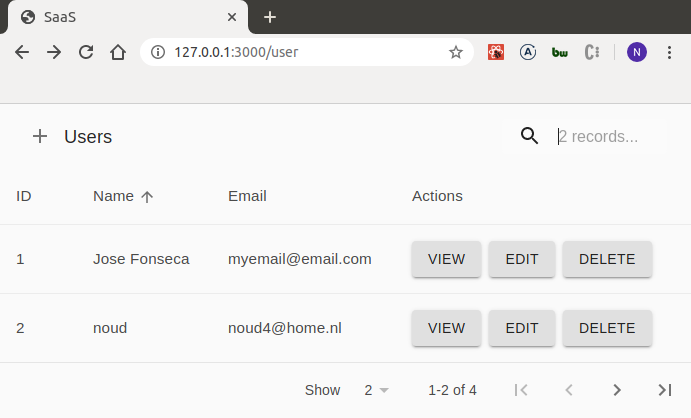
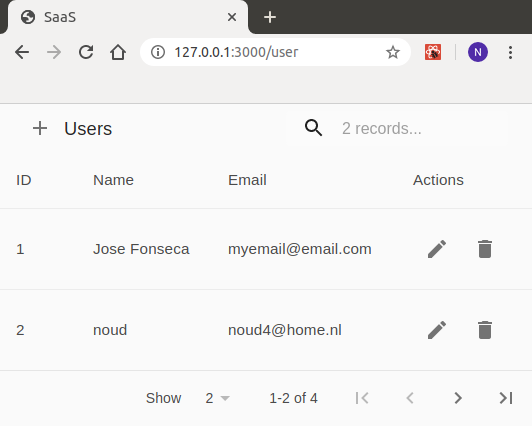
IconButton dev

diff --git a/src/components/EntityTable/CellRenderers/ActionButton.tsx b/src/components/EntityTable/CellRenderers/ActionButton.tsx
@@ -5,6 +5,9 @@ import Button from '@material-ui/core/Button';
 import Tooltip from '@material-ui/core/Tooltip';
 import defaultActions from '../../../lib/defaultActions';
 
+import IconButton from '@material-ui/core/IconButton';
+import { Delete, Edit } from '@material-ui/icons';
+
 const useStyles = makeStyles((theme: Theme) =>
   createStyles({
     actionButton: {
@@ -12,6 +15,35 @@ const useStyles = makeStyles((theme: Theme) =>
     },
   })
 );
+
+
+const TextButton = (actionButton: any, handleClick: any, actionType: any) => {
+  // const { actionButton, handleClick, actionType } = props;
+  return (
+    <Button variant="contained" className={actionButton} onClick={handleClick}>
+     {actionType}
+    </Button>
+  );
+} 
+
+const DeleteButton = (actionButton: any, handleClick: any, actionType: any) => {
+  // const { actionButton, handleClick, actionType } = props;
+  return (
+    <IconButton aria-label="delete" variant="contained" className={classes.actionButton} onClick={handleClick}>
+     <Delete />
+    </IconButton>
+  );
+}
+
+
+const EditButton = (actionButton: any, handleClick: any, actionType: any) => {
+  // const { actionButton, handleClick, actionType } = props;
+  return (
+    <IconButton aria-label="edit" variant="contained" className={classes.actionButton} onClick={handleClick}>
+     <Edit />
+    </IconButton>
+  );
+}
 
 const ActionButton = (props: any) => {
   const { actionType, entityName, entityId, actions } = props;
@@ -24,11 +56,24 @@ const ActionButton = (props: any) => {
     defaultActions[actionType](entityName, entityId, { history, actions });
   }
 
+  console.log('actionType',actionType);
+
+  var buttonToRender = TextButton;
+  switch(actionType) {
+    case "delete":
+        buttonToRender = DeleteButton;
+        break;
+      case "edit":
+        buttonToRender = EditButton;
+        break;
+    }
+
   return (
     <Tooltip title={actionType}>
-      <Button variant="contained" className={classes.actionButton} onClick={handleClick}>
-        {actionType}
-      </Button>
+      <div>
+        {TextButton(classes.actionButton, handleClick, actionType)}
+        {buttonToRender}
+      </div>
     </Tooltip>
   );
 };

diff --git a/src/components/EntityTable/CellRenderers/ActionButtons.tsx b/src/components/EntityTable/CellRenderers/ActionButtons.tsx
@@ -1,6 +1,9 @@
 import React from 'react';
 import ActionButton from './ActionButton';
 
+import IconButton from '@material-ui/core/IconButton';
+import { Delete, Edit } from '@material-ui/icons';
+
 export default function ActionButtons(props) {
   const { row = [], data = [], initialState = {} } = props;
 
@@ -9,9 +12,12 @@ export default function ActionButtons(props) {
 
   return (
     <React.Fragment>
-      <ActionButton key="view" entityId={id} entityName={entityName} actionType="view" />
-      <ActionButton key="edit" entityId={id} entityName={entityName} actionType="edit" />
-      <ActionButton key="delete" entityId={id} entityName={entityName} actionType="delete" actions={actions} />
+      <IconButton aria-label="edit" key="edit" entityId={id} entityName={entityName} actionType="edit" actions={actions}>
+        <Edit />
+      </IconButton>
+      <IconButton aria-label="delete" key="delete" entityId={id} entityName={entityName} actionType="delete" actions={actions}>
+        <Delete />
+      </IconButton>
     </React.Fragment>
   );
 }
